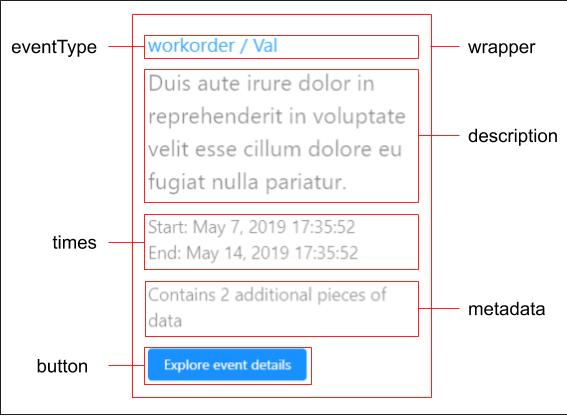
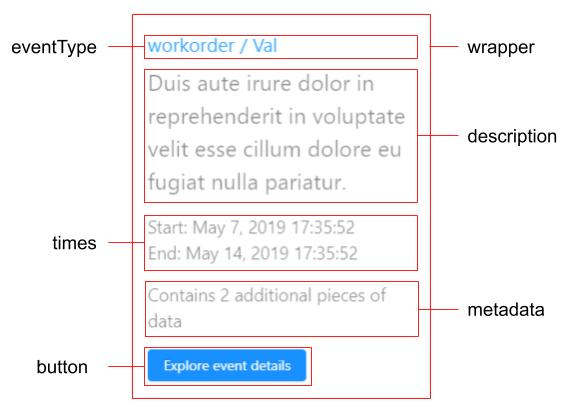
Fix picture of EventPreview styles

diff --git a/src/components/EventPreview/stories/full.md b/src/components/EventPreview/stories/full.md
@@ -76,7 +76,7 @@ import { Event } from '@cognite/sdk';
 This interface defines inline CSS styles for inner elements of `EventPreview` component.
 You can override styles of following blocks:
 
-<img src="event_preview/styling_schema.png" alt="EventPreview Styling" width="600px">
+<img src="event_preview/styling_schema.jpg" alt="EventPreview Styling" width="600px">
 <br><br>
 The type can be imported from `@cognite/gearbox`:
 
